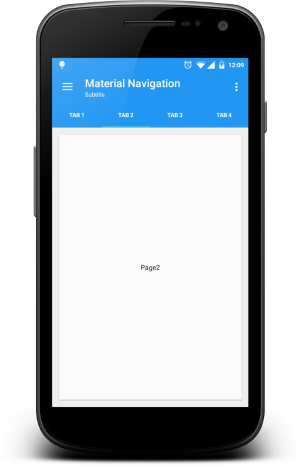
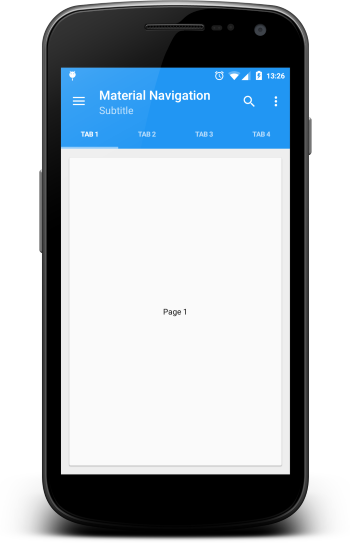
- ActionBar replaced with ToolBar - Added back key to close drawer - Added search button - Added SearchView - Fixed Navigation Drawer placed under ActionBar - Added selected and unselected Tab color options - Disabled title change on drawer open

diff --git a/app/src/main/java/net/mustafaozcan/materialnavigation/MainActivity.java b/app/src/main/java/net/mustafaozcan/materialnavigation/MainActivity.java
@@ -18,13 +18,15 @@ package net.mustafaozcan.materialnavigation;
  */
 
 import android.content.res.Configuration;
-import android.graphics.Color;
 import android.os.Bundle;
+import android.support.v4.view.MenuItemCompat;
 import android.support.v4.view.ViewPager;
 import android.support.v4.widget.DrawerLayout;
 import android.support.v7.app.ActionBar;
 import android.support.v7.app.ActionBarDrawerToggle;
 import android.support.v7.app.AppCompatActivity;
+import android.support.v7.widget.SearchView;
+import android.support.v7.widget.Toolbar;
 import android.view.Menu;
 import android.view.MenuItem;
 import android.view.View;
@@ -32,11 +34,11 @@ import android.widget.AdapterView;
 import android.widget.ArrayAdapter;
 import android.widget.LinearLayout;
 import android.widget.ListView;
+import android.widget.Toast;
 
 public class MainActivity extends AppCompatActivity {
     private ActionBarDrawerToggle mDrawerToggle;
     private DrawerLayout mDrawerLayout;
-    private String mActivityTitle;
     private LinearLayout mDrawerPanel;
 
     @Override
@@ -51,19 +53,24 @@ public class MainActivity extends AppCompatActivity {
     }
 
     private void setUpNavigationDrawer() {
+
+        Toolbar toolbar = (Toolbar) findViewById(R.id.toolbar);
+        setSupportActionBar(toolbar);
+        ActionBar actionBar = getSupportActionBar();
+
         try {
-            ActionBar actionBar = getSupportActionBar();
-            actionBar.setDisplayShowTitleEnabled(true);
+            assert actionBar != null;
             actionBar.setDisplayHomeAsUpEnabled(true);
             actionBar.setHomeButtonEnabled(true);
             actionBar.setSubtitle(getString(R.string.subtitle));
+            actionBar.setDisplayShowTitleEnabled(true);
         } catch (Exception ignored) {
         }
 
         ListView mDrawerListView = (ListView) findViewById(R.id.navDrawerList);
         mDrawerPanel = (LinearLayout) findViewById(R.id.navDrawerPanel);
         mDrawerLayout = (DrawerLayout) findViewById(R.id.drawer_layout);
-        mActivityTitle = getTitle().toString();
+        //String mActivityTitle = getTitle().toString();
 
         ArrayAdapter<String> mAdapter = new ArrayAdapter<>(this, android.R.layout.simple_list_item_1, getResources().getStringArray(R.array.menulist));
         mDrawerListView.setAdapter(mAdapter);
@@ -79,19 +86,13 @@ public class MainActivity extends AppCompatActivity {
         mDrawerToggle = new ActionBarDrawerToggle(this, mDrawerLayout, R.string.drawer_open, R.string.drawer_close) {
             public void onDrawerOpened(View drawerView) {
                 super.onDrawerOpened(drawerView);
-                try {
-                    getSupportActionBar().setTitle(getString(R.string.drawer_opened));
-                } catch (Exception ignored) {
-                }
+                //getSupportActionBar().setTitle(getString(R.string.drawer_opened));
                 invalidateOptionsMenu();
             }
 
             public void onDrawerClosed(View view) {
                 super.onDrawerClosed(view);
-                try {
-                    getSupportActionBar().setTitle(mActivityTitle);
-                } catch (Exception ignored) {
-                }
+                //getSupportActionBar().setTitle(mActivityTitle);
                 invalidateOptionsMenu();
             }
         };
@@ -107,19 +108,29 @@ public class MainActivity extends AppCompatActivity {
         vpPager.setAdapter(adapterViewPager);
 
         SlidingTabLayout slidingTabLayout = (SlidingTabLayout) findViewById(R.id.sliding_tabs);
-        slidingTabLayout.setTextColor(Color.WHITE);
+        slidingTabLayout.setTextColor(getResources().getColor(R.color.tab_text_color));
+        slidingTabLayout.setTextColorSelected(getResources().getColor(R.color.tab_text_color_selected));
         slidingTabLayout.setDistributeEvenly();
         slidingTabLayout.setViewPager(vpPager);
+        slidingTabLayout.setTabSelected(0);
 
         // Change indicator color
-        /*
         slidingTabLayout.setCustomTabColorizer(new SlidingTabLayout.TabColorizer() {
             @Override
             public int getIndicatorColor(int position) {
-                return Color.RED;
+                return getResources().getColor(R.color.tab_indicator);
             }
-        });*/
+        });
 
+    }
+
+    @Override
+    public void onBackPressed() {
+        if (mDrawerLayout.isDrawerOpen(mDrawerPanel)) {
+            mDrawerLayout.closeDrawer(mDrawerPanel);
+        } else {
+            super.onBackPressed();
+        }
     }
 
     @Override
@@ -138,7 +149,29 @@ public class MainActivity extends AppCompatActivity {
     @Override
     public boolean onCreateOptionsMenu(Menu menu) {
         getMenuInflater().inflate(R.menu.menu_main, menu);
-        return true;
+        MenuItem searchItem = menu.findItem(R.id.action_search);
+
+        if (searchItem != null) {
+            SearchView searchView = (SearchView) MenuItemCompat.getActionView(searchItem);
+
+            // use this method for search process
+            searchView.setOnQueryTextListener(new SearchView.OnQueryTextListener() {
+                @Override
+                public boolean onQueryTextSubmit(String query) {
+                    // use this method when query submitted
+                    Toast.makeText(MainActivity.this, query, Toast.LENGTH_SHORT).show();
+                    return false;
+                }
+
+                @Override
+                public boolean onQueryTextChange(String newText) {
+                    // use this method for auto complete search process
+                    return false;
+                }
+            });
+
+        }
+        return super.onCreateOptionsMenu(menu);
     }
 
     @Override
@@ -147,7 +180,6 @@ public class MainActivity extends AppCompatActivity {
         if (id == R.id.action_settings) {
             return true;
         }
-
         // Activate the navigation drawer toggle
         return mDrawerToggle.onOptionsItemSelected(item) || super.onOptionsItemSelected(item);
     }

diff --git a/app/src/main/java/net/mustafaozcan/materialnavigation/SlidingTabLayout.java b/app/src/main/java/net/mustafaozcan/materialnavigation/SlidingTabLayout.java
@@ -67,7 +67,8 @@ public class SlidingTabLayout extends HorizontalScrollView {
     private int mTabViewLayoutId;
     private int mTabViewTextViewId;
     private boolean mDistributeEvenly;
-    private int textColor = Color.BLACK;
+    private int textColor = Color.WHITE;
+    private int textColorSelected = Color.GRAY;
     private ViewPager mViewPager;
     private SparseArray<String> mContentDescriptions = new SparseArray<>();
     private ViewPager.OnPageChangeListener mViewPagerPageChangeListener;
@@ -98,7 +99,7 @@ public class SlidingTabLayout extends HorizontalScrollView {
     /**
      * Set the custom {@link TabColorizer} to be used.
      * <p/>
-     * If you only require simple custmisation then you can use
+     * If you only require simple customisation then you can use
      * {@link #setSelectedIndicatorColors(int...)} to achieve
      * similar effects.
      */
@@ -208,6 +209,8 @@ public class SlidingTabLayout extends HorizontalScrollView {
 
             if (tabTitleView == null && TextView.class.isInstance(tabView)) {
                 tabTitleView = (TextView) tabView;
+                tabTitleView.setText(adapter.getPageTitle(i));
+                tabView.setOnClickListener(tabClickListener);
             }
 
             if (mDistributeEvenly) {
@@ -216,8 +219,6 @@ public class SlidingTabLayout extends HorizontalScrollView {
                 lp.weight = 1;
             }
 
-            tabTitleView.setText(adapter.getPageTitle(i));
-            tabView.setOnClickListener(tabClickListener);
             String desc = mContentDescriptions.get(i, null);
             if (desc != null) {
                 tabView.setContentDescription(desc);
@@ -275,6 +276,7 @@ public class SlidingTabLayout extends HorizontalScrollView {
             mTabStrip.onViewPagerPageChanged(position, positionOffset);
 
             View selectedTitle = mTabStrip.getChildAt(position);
+
             int extraOffset = (selectedTitle != null)
                     ? (int) (positionOffset * selectedTitle.getWidth())
                     : 0;
@@ -301,9 +303,9 @@ public class SlidingTabLayout extends HorizontalScrollView {
                 mTabStrip.onViewPagerPageChanged(position, 0f);
                 scrollToTab(position, 0);
             }
-            for (int i = 0; i < mTabStrip.getChildCount(); i++) {
-                mTabStrip.getChildAt(i).setSelected(position == i);
-            }
+
+            setTabSelected(position);
+
             if (mViewPagerPageChangeListener != null) {
                 mViewPagerPageChangeListener.onPageSelected(position);
             }
@@ -316,6 +318,7 @@ public class SlidingTabLayout extends HorizontalScrollView {
         public void onClick(View v) {
             for (int i = 0; i < mTabStrip.getChildCount(); i++) {
                 if (v == mTabStrip.getChildAt(i)) {
+
                     mViewPager.setCurrentItem(i);
                     return;
                 }
@@ -323,8 +326,19 @@ public class SlidingTabLayout extends HorizontalScrollView {
         }
     }
 
+    public void setTabSelected(int position) {
+        for (int i = 0; i < mTabStrip.getChildCount(); i++) {
+            TextView textView = (TextView) mTabStrip.getChildAt(i);
+            textView.setTextColor(position == i ? textColorSelected : textColor);
+            textView.setSelected(position == i);
+        }
+    }
+
     public void setTextColor(int color) {
         this.textColor = color;
     }
 
+    public void setTextColorSelected(int color) {
+        this.textColorSelected = color;
+    }
 }

diff --git a/app/src/main/java/net/mustafaozcan/materialnavigation/SlidingTabStrip.java b/app/src/main/java/net/mustafaozcan/materialnavigation/SlidingTabStrip.java
@@ -52,8 +52,7 @@ class SlidingTabStrip extends LinearLayout {
         context.getTheme().resolveAttribute(android.R.attr.colorForeground, outValue, true);
         final int themeForegroundColor = outValue.data;
 
-        int mDefaultBottomBorderColor = setColorAlpha(themeForegroundColor
-        );
+        int mDefaultBottomBorderColor = setColorAlpha(themeForegroundColor);
 
         mDefaultTabColorizer = new SimpleTabColorizer();
         mDefaultTabColorizer.setIndicatorColors(DEFAULT_SELECTED_INDICATOR_COLOR);

diff --git a/app/src/main/java/net/mustafaozcan/materialnavigation/ContentFragment.java b/app/src/main/java/net/mustafaozcan/materialnavigation/ContentFragment.java
@@ -45,7 +45,7 @@ public class ContentFragment extends Fragment {
             int pageIndex = bundle.getInt("pageIndex", 0);
 
             TextView tvSection = (TextView) view.findViewById(R.id.tvSection);
-            tvSection.setText( getString(R.string.page) + String.valueOf(pageIndex + 1));
+            tvSection.setText(getString(R.string.page) + " " + String.valueOf(pageIndex + 1));
         }
         return view;
 

diff --git a/app/src/main/java/net/mustafaozcan/materialnavigation/ContentFragmentAdapter.java b/app/src/main/java/net/mustafaozcan/materialnavigation/ContentFragmentAdapter.java
@@ -23,7 +23,7 @@ import android.support.v4.app.FragmentPagerAdapter;
  */
 class ContentFragmentAdapter extends FragmentPagerAdapter {
     private static int NUM_ITEMS = 1;
-    private Context c;
+    private final Context c;
 
     public ContentFragmentAdapter(FragmentManager fragmentManager, Context context, int item_count) {
         super(fragmentManager);
